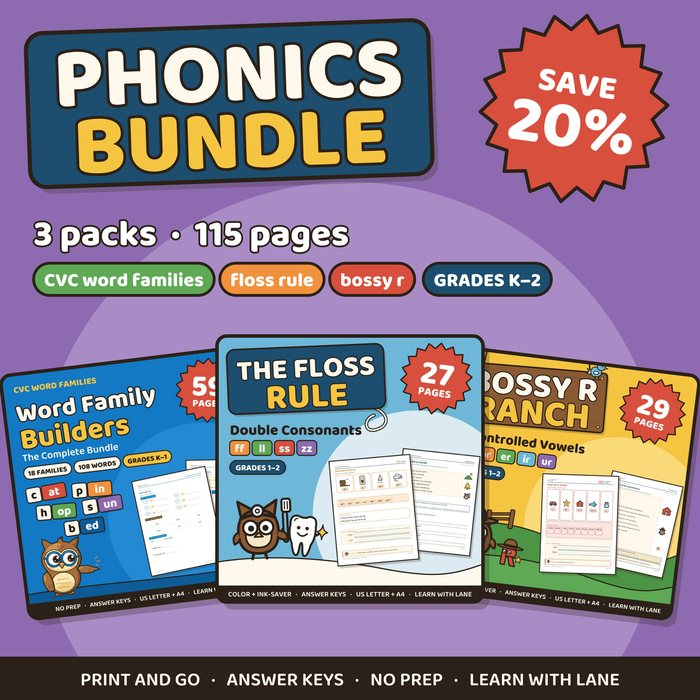
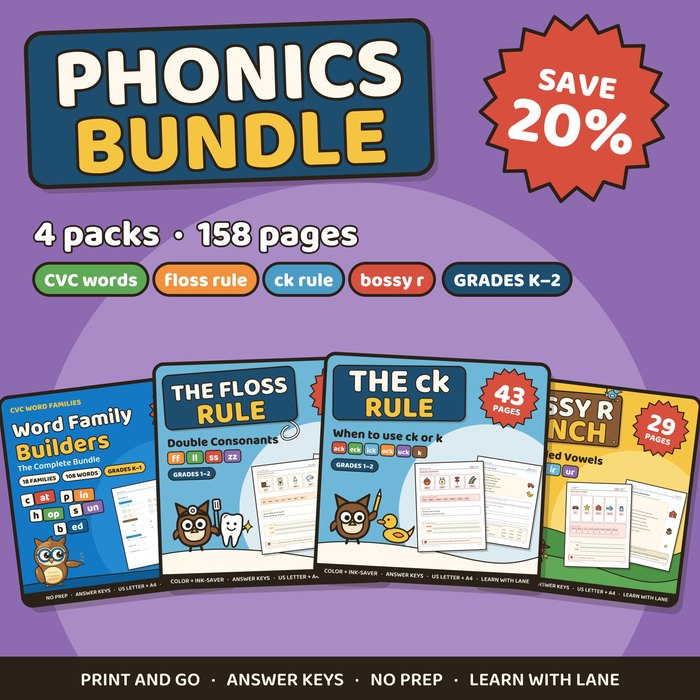
content: add the free ck Rule sampler and pack to the free worksheets page; bundle is now four packs

diff --git a/free-phonics-worksheets.html b/free-phonics-worksheets.html
@@ -14,10 +14,10 @@
   <meta charset="UTF-8" />
   <meta name="viewport" content="width=device-width, initial-scale=1.0" />
   <title>Free Phonics Worksheets (Printable PDFs): CVC Words, Bossy R, Syllable Types | Learn with Lane</title>
-  <meta name="description" content="Seven free printable phonics and reading worksheets from a certified teacher: CVC word families for kindergarten, r-controlled vowels and the floss rule for grades 1-2, compound words for grades 2-5, syllable types, fluency and a making inferences anchor chart for grades 3-6, and a kindergarten morning menu. Answer keys included." />
+  <meta name="description" content="Eight free printable phonics and reading worksheets from a certified teacher: CVC word families for kindergarten, r-controlled vowels, the floss rule and the ck rule for grades 1-2, compound words for grades 2-5, syllable types, fluency and a making inferences anchor chart for grades 3-6, and a kindergarten morning menu. Answer keys included." />
   <link rel="canonical" href="https://learnwithlane.com/free-phonics-worksheets.html" />
   <meta property="og:title" content="Free Phonics Worksheets: Printable Samplers for K-6 | Learn with Lane" />
-  <meta property="og:description" content="Free printable phonics and reading intervention pages: CVC word families, bossy r, the floss rule, compound words, syllable types, fluency, and a kindergarten morning menu." />
+  <meta property="og:description" content="Free printable phonics and reading intervention pages: CVC word families, bossy r, the floss rule, ck or k, compound words, syllable types, fluency, and a kindergarten morning menu." />
   <meta property="og:image" content="https://learnwithlane.com/images/worksheets/phonics-bundle.jpg" />
   <meta property="og:url" content="https://learnwithlane.com/free-phonics-worksheets.html" />
   <meta property="og:type" content="website" />
@@ -36,10 +36,11 @@
       { "@type": "ListItem", "position": 1, "name": "Free CVC Word Families Worksheets (-at, -an, -ap), grades K-1", "url": "https://www.teacherspayteachers.com/Product/FREE-CVC-Word-Families-Worksheets-Short-a-at-an-ap-Phonics-Sampler-17885301" },
       { "@type": "ListItem", "position": 2, "name": "Free Bossy R Worksheets (r-controlled vowels, ar words), grades 1-2", "url": "https://www.teacherspayteachers.com/Product/FREE-Bossy-R-Worksheets-R-Controlled-Vowels-ar-Words-Phonics-Sampler-17873866" },
       { "@type": "ListItem", "position": 3, "name": "Free Floss Rule Worksheets (double consonants, ff words), grades 1-2", "url": "https://www.teacherspayteachers.com/Product/Floss-Rule-Worksheets-FREE-Sampler-Rule-Page-and-ff-Words-Double-Consonants-17897492" },
-      { "@type": "ListItem", "position": 4, "name": "Free Compound Words Worksheets (word sort, practice, short story), grades 2-5", "url": "https://www.teacherspayteachers.com/Product/FREE-Compound-Words-Worksheets-Word-Sort-Practice-and-Short-Story-Sampler-17898424" },
-      { "@type": "ListItem", "position": 5, "name": "Free Reading Intervention Worksheets (syllable types, prefixes, fluency), grades 3-6", "url": "https://www.teacherspayteachers.com/Product/FREE-Reading-Intervention-Worksheets-Syllable-Types-Prefixes-Fluency-Sampler-17885294" },
-      { "@type": "ListItem", "position": 6, "name": "Free Inference Anchor Chart (making inferences poster, notebook charts, practice), grades 3-6", "url": "https://www.teacherspayteachers.com/Product/Inference-Anchor-Chart-Making-Inferences-Anchor-Chart-Notes-Practice-FREE-17899397" },
-      { "@type": "ListItem", "position": 7, "name": "Free Morning Menu Sampler (calendar and 100 chart), kindergarten", "url": "https://www.teacherspayteachers.com/Product/FREE-Morning-Menu-Sampler-Kindergarten-Morning-Work-Calendar-100-Chart-17863282" }
+      { "@type": "ListItem", "position": 4, "name": "Free ck Worksheets (ck spelling rule, ack words, decodable story), grades 1-2", "url": "https://www.teacherspayteachers.com/Product/CK-Worksheets-FREE-Sampler-ck-Spelling-Rule-Page-ack-Words-Decodable-Story-17906537" },
+      { "@type": "ListItem", "position": 5, "name": "Free Compound Words Worksheets (word sort, practice, short story), grades 2-5", "url": "https://www.teacherspayteachers.com/Product/FREE-Compound-Words-Worksheets-Word-Sort-Practice-and-Short-Story-Sampler-17898424" },
+      { "@type": "ListItem", "position": 6, "name": "Free Reading Intervention Worksheets (syllable types, prefixes, fluency), grades 3-6", "url": "https://www.teacherspayteachers.com/Product/FREE-Reading-Intervention-Worksheets-Syllable-Types-Prefixes-Fluency-Sampler-17885294" },
+      { "@type": "ListItem", "position": 7, "name": "Free Inference Anchor Chart (making inferences poster, notebook charts, practice), grades 3-6", "url": "https://www.teacherspayteachers.com/Product/Inference-Anchor-Chart-Making-Inferences-Anchor-Chart-Notes-Practice-FREE-17899397" },
+      { "@type": "ListItem", "position": 8, "name": "Free Morning Menu Sampler (calendar and 100 chart), kindergarten", "url": "https://www.teacherspayteachers.com/Product/FREE-Morning-Menu-Sampler-Kindergarten-Morning-Work-Calendar-100-Chart-17863282" }
     ]
   }
   </script>
@@ -59,7 +60,7 @@
     .ws-card ul { margin: 0 0 16px 20px; font-size: 0.95rem; }
     .ws-card .btn { margin-top: auto; text-align: center; }
     .ws-full { font-size: 0.9rem; margin-top: 12px; }
-    .ws-packs { display: grid; grid-template-columns: repeat(4, 1fr); gap: 24px; margin-top: 32px; }
+    .ws-packs { display: grid; grid-template-columns: repeat(5, 1fr); gap: 20px; margin-top: 32px; }
     .ws-pack { text-align: center; }
     .ws-pack img { width: 100%; height: auto; border-radius: 10px; border: 2px solid #e6dcc8; display: block; }
     .ws-pack h3 { font-size: 1.05rem; margin: 12px 0 4px; }
@@ -102,7 +103,7 @@
     <section class="section section--center">
       <div class="container">
         <h1>Free Phonics Worksheets You Can Print Today</h1>
-        <p class="lead mt-16">Seven free printables from my phonics and reading packs, from kindergarten word families to making inferences for older readers. The samplers are real pages from the full pack, not a watered-down preview, and each one teaches one skill at a time.</p>
+        <p class="lead mt-16">Eight free printables from my phonics and reading packs, from kindergarten word families to making inferences for older readers. The samplers are real pages from the full pack, not a watered-down preview, and each one teaches one skill at a time.</p>
         <p class="lead mt-16">The downloads are hosted on Teachers Pay Teachers. They are free; you only need a free TPT account to download.</p>
       </div>
     </section>
@@ -158,6 +159,21 @@
             </ul>
             <a class="btn" href="https://www.teacherspayteachers.com/Product/Floss-Rule-Worksheets-FREE-Sampler-Rule-Page-and-ff-Words-Double-Consonants-17897492" target="_blank" rel="noopener">Download Free on TPT</a>
             <p class="ws-full">Full pack: <a href="https://www.teacherspayteachers.com/Product/Floss-Rule-Worksheets-Double-Consonants-ff-ll-ss-zz-FLSZ-Decodable-Stories-17884973" target="_blank" rel="noopener">ff, ll, ss and zz, 27 pages, two decodable stories</a></p>
+          </div>
+
+          <div class="ws-card">
+            <img src="images/worksheets/ck-rule.jpg" alt="The ck Rule worksheets cover: when to use ck or k, grades 1 to 2" loading="lazy" />
+            <h3>The ck Rule: ck or k?</h3>
+            <div class="ws-grade">Grades 1 and 2 &middot; 6 pages</div>
+            <p>For a child who spells bak and duk, or who writes ck everywhere once it is taught.</p>
+            <ul>
+              <li>The ck Rule page: three questions to ask</li>
+              <li>Meet the ack words, then practice with sound boxes</li>
+              <li>A short decodable story with a quick check</li>
+              <li>Answer key included</li>
+            </ul>
+            <a class="btn" href="https://www.teacherspayteachers.com/Product/CK-Worksheets-FREE-Sampler-ck-Spelling-Rule-Page-ack-Words-Decodable-Story-17906537" target="_blank" rel="noopener">Download Free on TPT</a>
+            <p class="ws-full">Full pack: <a href="https://www.teacherspayteachers.com/Product/CK-Worksheets-ck-or-k-Spelling-Rule-Digraph-ck-Sorts-Decodable-Stories-17906501" target="_blank" rel="noopener">five ck word families and k alone, 43 pages, seven decodable stories</a></p>
           </div>
 
           <div class="ws-card">
@@ -237,7 +253,7 @@
           <h3>Built for a parent, a tutor, or a teacher</h3>
           <p>Every pack has an answer key and a short guide. You do not need training in a reading program to use them.</p>
           <h3>What order should I use them in?</h3>
-          <p>CVC word families come first, then the floss rule (ff, ll, ss, zz), then r-controlled vowels. Syllable types and prefixes are for students who already read one-syllable words well.</p>
+          <p>CVC word families come first, then the floss rule (ff, ll, ss, zz), then ck or k, then r-controlled vowels. Syllable types and prefixes are for students who already read one-syllable words well.</p>
         </div>
       </div>
     </section>
@@ -251,16 +267,22 @@
         <p class="lead mt-16">Every pack is a print-and-go PDF with answer keys.</p>
         <div class="ws-packs">
           <div class="ws-pack">
-            <a href="https://www.teacherspayteachers.com/Product/Phonics-Worksheets-Bundle-CVC-Word-Families-Floss-Rule-R-Controlled-Vowels-17885840" target="_blank" rel="noopener"><img src="images/worksheets/phonics-bundle.jpg" alt="Phonics bundle cover: CVC word families, floss rule and bossy r" loading="lazy" /></a>
+            <a href="https://www.teacherspayteachers.com/Product/Phonics-Worksheets-Bundle-CVC-Words-Floss-Rule-ck-Rule-R-Controlled-Vowels-17885840" target="_blank" rel="noopener"><img src="images/worksheets/phonics-bundle.jpg" alt="Phonics bundle cover: CVC word families, floss rule, ck rule and bossy r" loading="lazy" /></a>
             <h3>Phonics Bundle, K&ndash;2</h3>
-            <p>Three packs, 115 pages. Save 20%.</p>
-            <a href="https://www.teacherspayteachers.com/Product/Phonics-Worksheets-Bundle-CVC-Word-Families-Floss-Rule-R-Controlled-Vowels-17885840" target="_blank" rel="noopener">See the bundle</a>
+            <p>Four packs, 158 pages. Save 20%.</p>
+            <a href="https://www.teacherspayteachers.com/Product/Phonics-Worksheets-Bundle-CVC-Words-Floss-Rule-ck-Rule-R-Controlled-Vowels-17885840" target="_blank" rel="noopener">See the bundle</a>
           </div>
           <div class="ws-pack">
             <a href="https://www.teacherspayteachers.com/Product/Floss-Rule-Worksheets-Double-Consonants-ff-ll-ss-zz-FLSZ-Decodable-Stories-17884973" target="_blank" rel="noopener"><img src="images/worksheets/floss-rule.jpg" alt="The Floss Rule double consonants worksheets cover, grades 1 to 2" loading="lazy" /></a>
             <h3>The Floss Rule</h3>
             <p>ff, ll, ss, zz. 27 pages, grades 1&ndash;2.</p>
             <a href="https://www.teacherspayteachers.com/Product/Floss-Rule-Worksheets-Double-Consonants-ff-ll-ss-zz-FLSZ-Decodable-Stories-17884973" target="_blank" rel="noopener">See the pack</a>
+          </div>
+          <div class="ws-pack">
+            <a href="https://www.teacherspayteachers.com/Product/CK-Worksheets-ck-or-k-Spelling-Rule-Digraph-ck-Sorts-Decodable-Stories-17906501" target="_blank" rel="noopener"><img src="images/worksheets/ck-rule.jpg" alt="The ck Rule worksheets cover: when to use ck or k, grades 1 to 2" loading="lazy" /></a>
+            <h3>The ck Rule</h3>
+            <p>ck or k? 43 pages, grades 1&ndash;2.</p>
+            <a href="https://www.teacherspayteachers.com/Product/CK-Worksheets-ck-or-k-Spelling-Rule-Digraph-ck-Sorts-Decodable-Stories-17906501" target="_blank" rel="noopener">See the pack</a>
           </div>
           <div class="ws-pack">
             <a href="playbook.html"><img src="images/worksheets/reading-playbook.jpg" alt="The Reading Playbook cover" loading="lazy" /></a>
